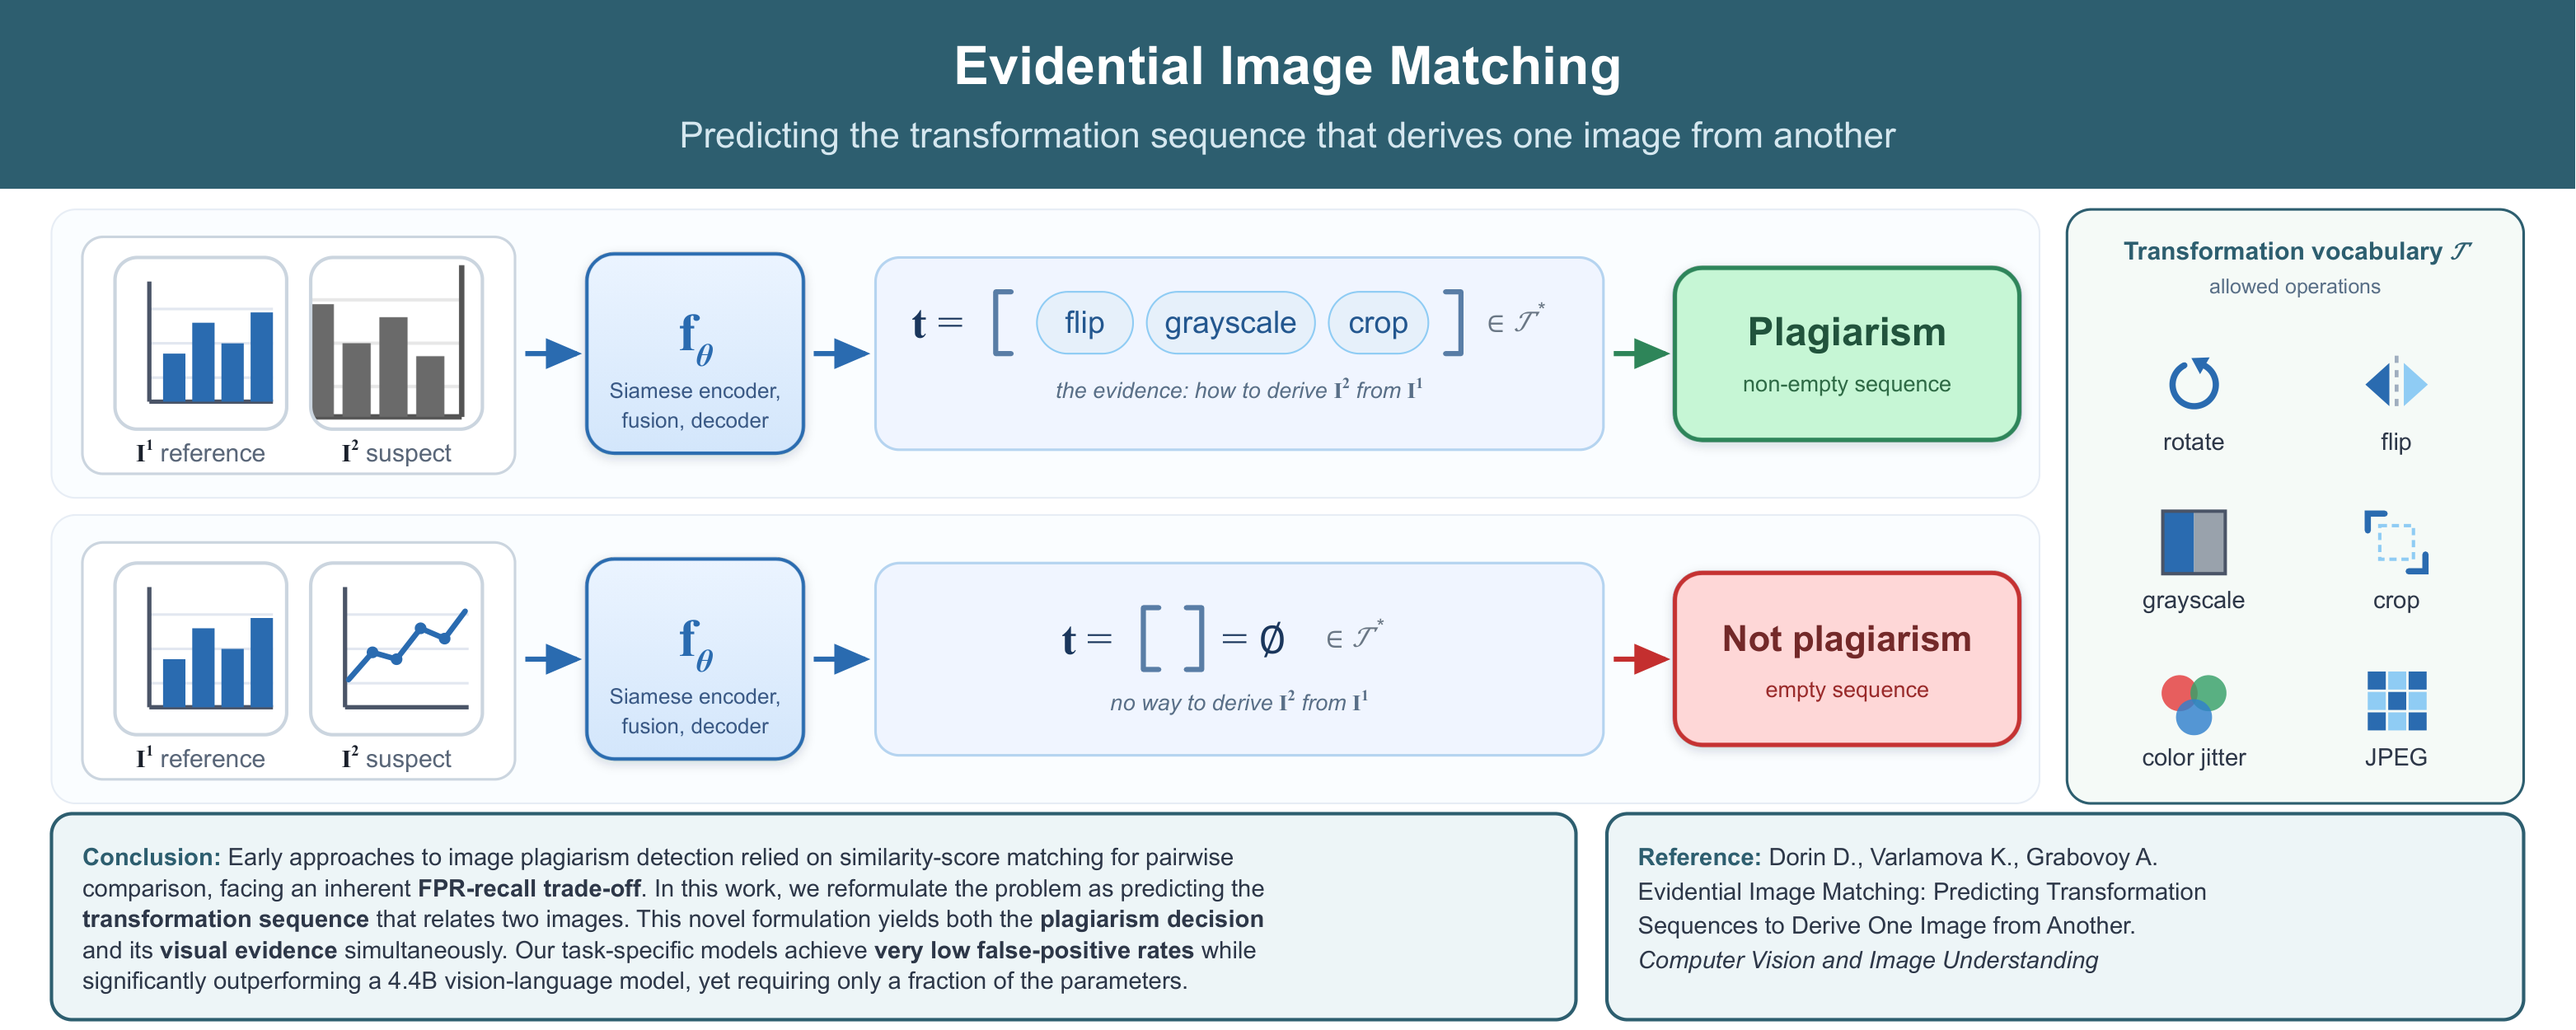
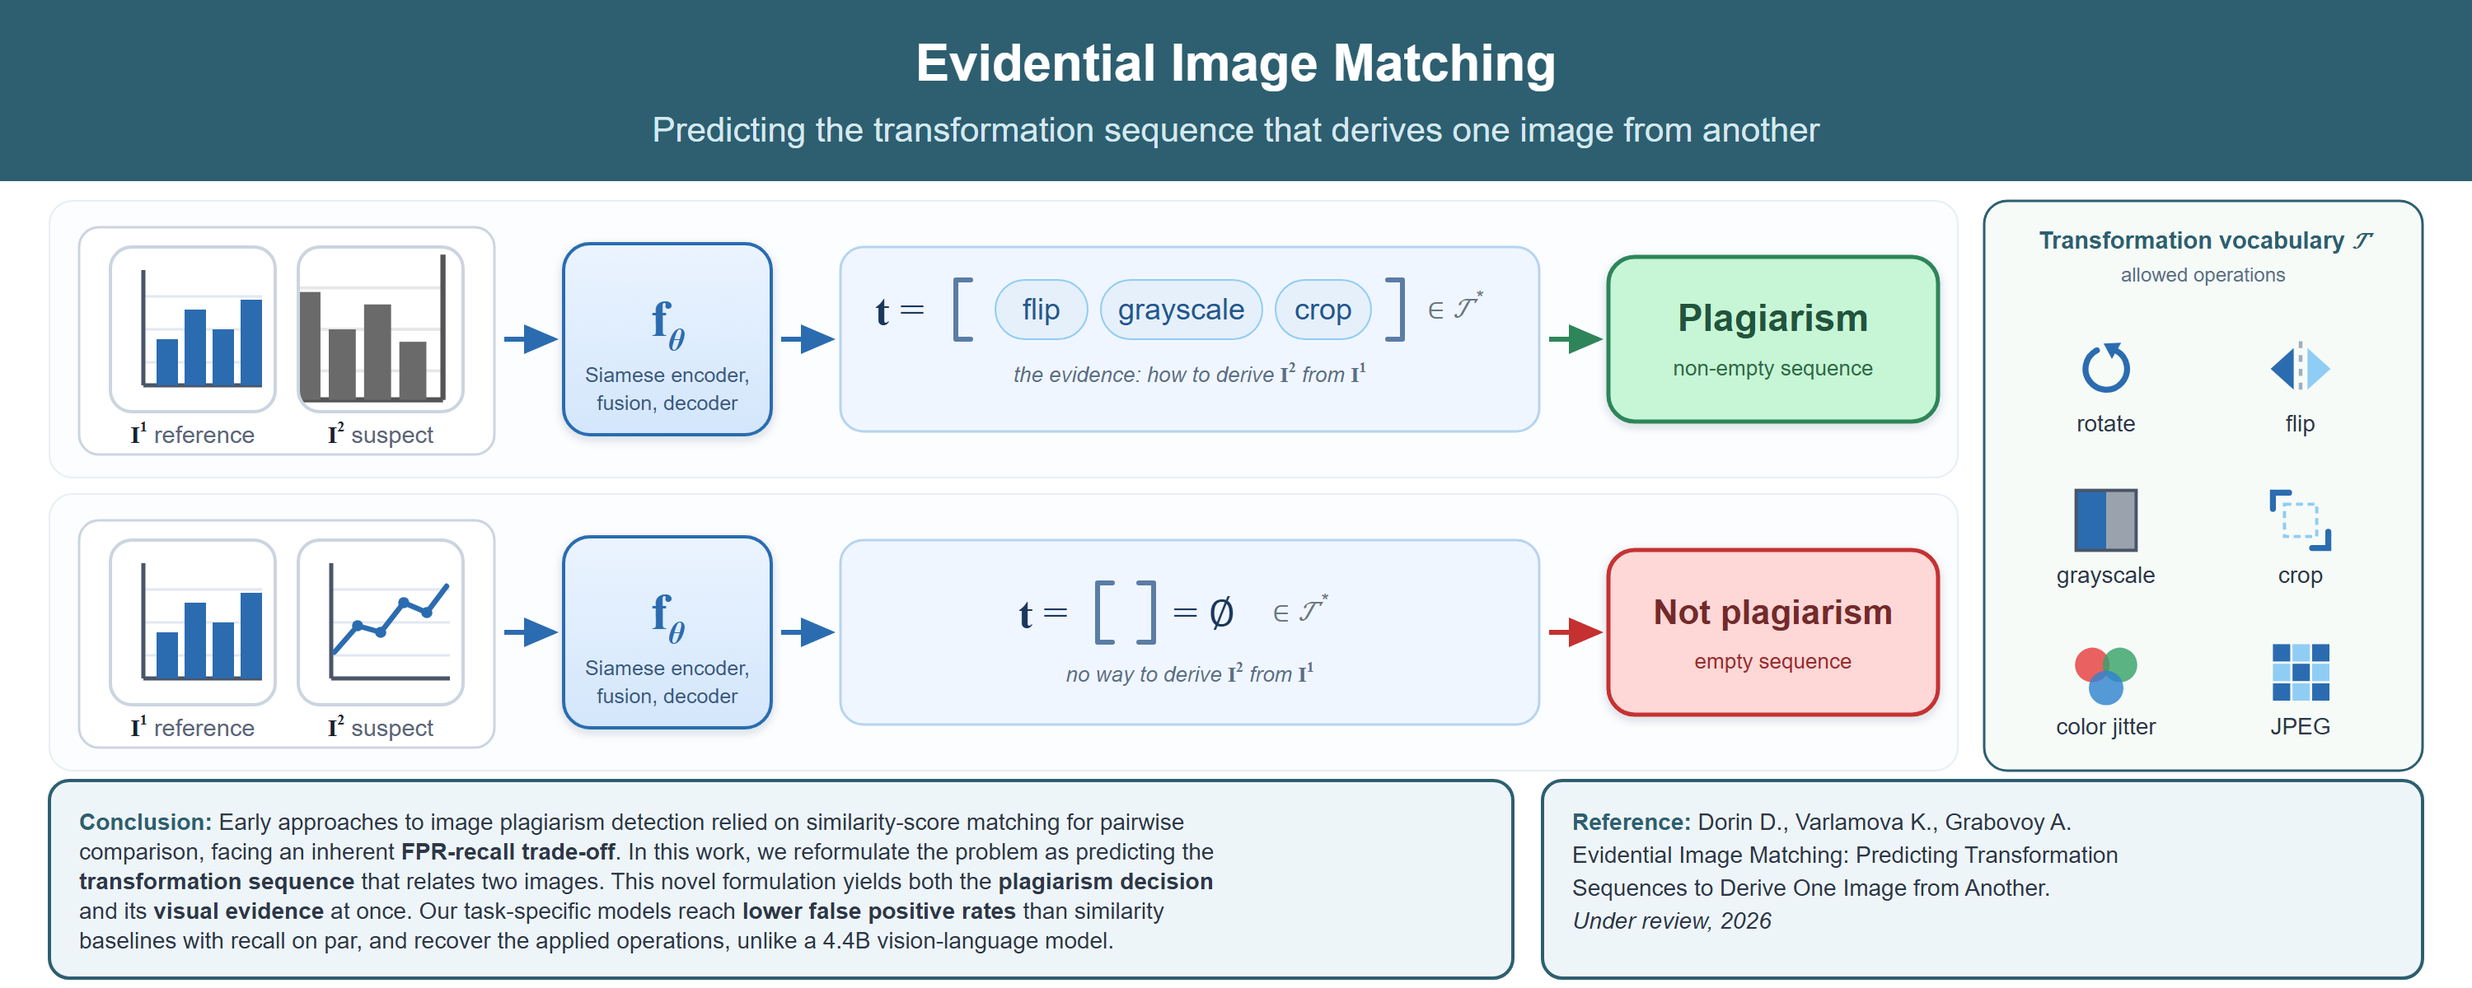
Update the evidential image matching page: new abstract and graphical abstract without the journal name

diff --git a/content/research/evidential-image-matching/index.md b/content/research/evidential-image-matching/index.md
@@ -14,6 +14,6 @@ links:
     icon: code
 ---
 
-Detecting image plagiarism and near-duplicate content remains a critical challenge in academic publishing, media verification, and e-commerce. Existing methods typically rely on pairwise similarity scores, which provide limited interpretability and often struggle to distinguish visual similarity from true transformational derivability. To address this limitation, we reformulate the problem as *evidential image matching*: given a reference image and a suspect image, the model predicts the sequence of transformations that derives one image from the other. An empty sequence indicates non-plagiarism. We propose an encoder-decoder architecture trained to recover transformation sequences from a predefined vocabulary. We further introduce the Canonical Jaccard Index, a reconstruction metric that accounts for equivalent transformation sequences by respecting the algebraic structure of the dihedral group D₄ and the permutation invariance of commutative operations. Experiments on DomainNet and a curated multi-domain negative dataset show that the proposed approach substantially outperforms similarity-based baselines and a strong zero-shot vision-language model in both plagiarism detection and transformation reconstruction. In addition to improved accuracy, the model provides a human-readable evidence trail explaining its decisions.
+Image copy detection asks whether a suspect image is a transformed copy of a reference image, a critical question in academic publishing, media verification, and e-commerce. Existing methods rely on pairwise similarity scores, which offer little interpretability and confuse visual similarity with derivability. We reformulate the problem as *evidential image matching*: the model predicts the sequence of operations from a fixed vocabulary that derives the suspect image from the reference image. An empty sequence means that no derivation exists. We propose an encoder-decoder model that recovers these sequences. We also introduce the Canonical Jaccard Index, a reconstruction metric that respects the algebraic structure of the dihedral group D₄ and scores non-geometric operations as an unordered set. On DomainNet and a curated multi-domain negative dataset, the models fine-tuned on hard negatives reach a lower false positive rate on content-similar negatives than similarity-based baselines. Their recall stays on par with these baselines on every operation except crops, alone or in a composite. It also exceeds that of a widely used copy-detection descriptor on rotations, vertical flips, and composite sequences. A threshold sweep of that descriptor shows that no single similarity threshold gives both a low false positive rate and high recall. Our models need no threshold tuning. They also recover the applied operations, unlike a zero-shot vision-language model. The predicted sequence serves both as the decision and as a human-readable evidence trail that explains how the suspect image was obtained.
 
 ![Graphical abstract: the model predicts the transformation sequence relating two images; a non-empty sequence is the plagiarism decision and its visual evidence.](graphical_abstract.png)
